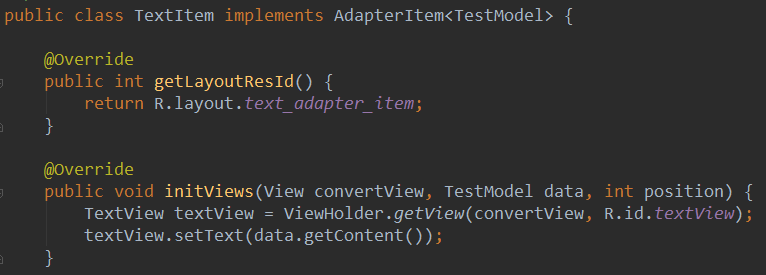
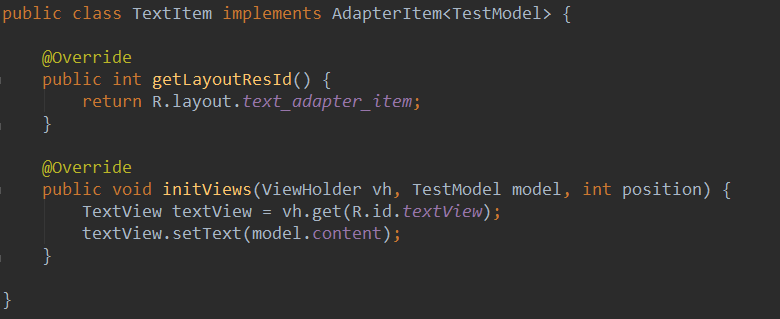
更新了readme

diff --git a/README.md b/README.md
@@ -49,8 +49,6 @@ public interface AdapterModel {
 
     /**
      * 返回每种数据类型的标识.<br>
-     * 需要注意的是：这个的范围只能是[0 , typeCount - 1]
-     * @return 每种数据类型的标识
      */
     public int getDataType();
 }  
@@ -59,34 +57,9 @@ public interface AdapterModel {
 ```JAVA
 public class TestModel implements AdapterModel {
 
-    /**
-     * 定义类型标识的时候，必须是从0到type数-1，否则会数组越界.
-     * 这里我们是三种类型，所以类型的标识就是0~2
-     */
-    public static final int TYPE_TEXT = 0;
-    public static final int TYPE_BUTTON = 1;
-    public static final int TYPE_IMAGE = 2;
-    public static final int TYPE_NORMAL = TYPE_TEXT;
+	public String content;
 
-    private String content;
-
-    private String type;
-
-    public String getContent() {
-        return content;
-    }
-
-    public void setContent(String content) {
-        this.content = content;
-    }
-
-    public void setType(String type) {
-        this.type = type;
-    }
-
-    public String getType() {
-        return this.type;
-    }
+    public String type;
 
     /**
      * 返回数据的类型数
@@ -100,19 +73,9 @@ public class TestModel implements AdapterModel {
      * 这个model中决定数据类型的字段
      */
     @Override
-    public int getDataType() {
-        switch (type) {
-            case "button":
-                return TYPE_BUTTON;
-            case "image":
-                return TYPE_IMAGE;
-            case "text":
-                return TYPE_TEXT;
-            default:
-                return TYPE_NORMAL;
-        }
+    public Object getDataType() {
+        return type;
     }
-
 }
 
 ```  
@@ -139,11 +102,11 @@ public interface AdapterItem<T extends AdapterModel> {
     /**
      * 根据数据来初始化item的内部view
      *
-     * @param convertView adapter中复用的view
-     * @param data        数据list内部的model
-     * @param position    当前adapter调用item的位置
+     * @param vh       view holder
+     * @param model    数据list内部的model
+     * @param position 当前adapter调用item的位置
      */
-    public void initViews(View convertView, T data, int position);
+    public void initViews(ViewHolder vh, T model, int position);
 
 }  
 ```  
@@ -151,15 +114,15 @@ public interface AdapterItem<T extends AdapterModel> {
 ```java
 public class TextItem implements AdapterItem<TestModel> {
 
-    @Override
+     @Override
     public int getLayoutResId() {
         return R.layout.text_adapter_item;
     }
 
     @Override
-    public void initViews(View convertView, TestModel data, int position) {
-        TextView textView = ViewHolder.getView(convertView, R.id.textView);
-        textView.setText(data.getContent());
+    public void initViews(ViewHolder vh, TestModel model, int position) {
+        TextView textView = vh.get(R.id.textView);
+        textView.setText(model.content);
     }
 
 }
@@ -174,22 +137,17 @@ public class TextItem implements AdapterItem<TestModel> {
 
             @NonNull
             @Override
-            protected AdapterItem initItemView(int type) {
-                AdapterItem item;
-                switch (type) {
-                    case TestModel.TYPE_TEXT:
-                        item = new TextItem();
-                        break;
-                    case TestModel.TYPE_BUTTON:
-                        item = new ButtonItem();
-                        break;
-                    case TestModel.TYPE_IMAGE:
-                        item = new ImageItem();
-                        break;
-                    default:
-                        item = new TextItem();
-                }
-                return item;
+            protected AdapterItem<TestModel> initItemView(Object type) {
+                 switch ((String)type) {
+            	case "text":
+                	return new TextItem();
+            	case "button":
+                	return new ButtonItem();
+            	case "image":
+                	return new ImageItem();
+            	default:
+                	return new TextItem();
+        		}
             }
         });
 ```
